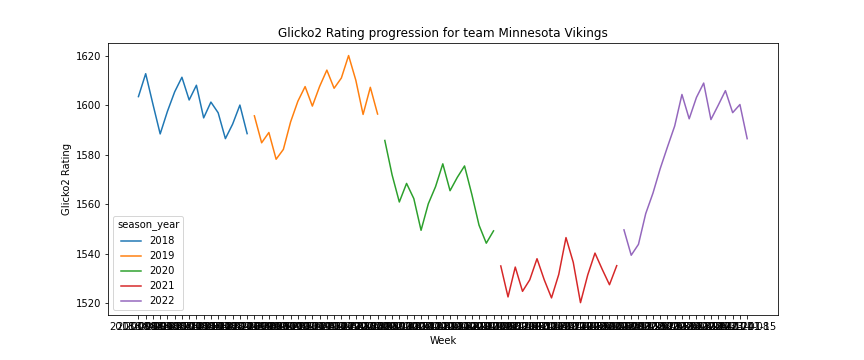
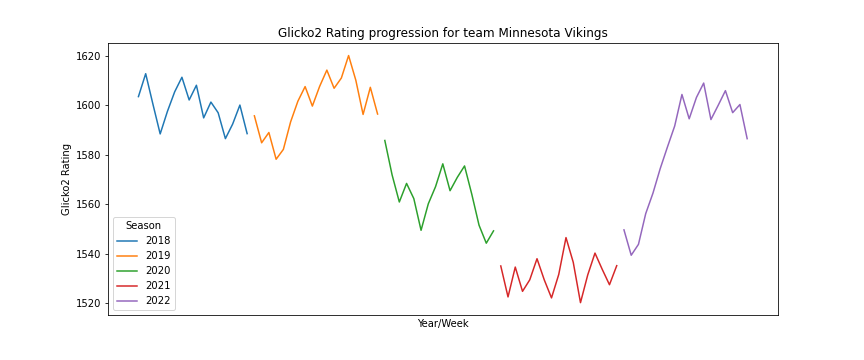
cleaning up the display chart

Changed region(s): [[0.125, 0.8861, 0.9062, 0.9778], [0.125, 0.5806, 0.2188, 0.8556]]

diff --git a/src/classes.py b/src/classes.py
@@ -368,9 +368,15 @@ def plot_ratings(df, team_name):
     )
 
     # Set labels
-    ax.set_xlabel("Week")
+    ax.set_xlabel("Year/Week")
     ax.set_ylabel("Glicko2 Rating")
     plt.title(f"Glicko2 Rating progression for team {team_name}")
+
+    # Legend
+    legend = ax.legend()
+    legend.set_title("Season")
+
+    plt.xticks([])
 
     # Save the Plot
     plt.savefig(f"../figures/{team_name}.png".replace(" ", "_"))
